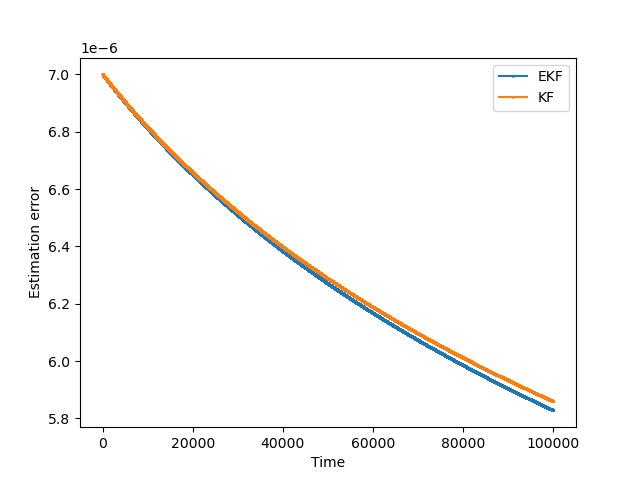
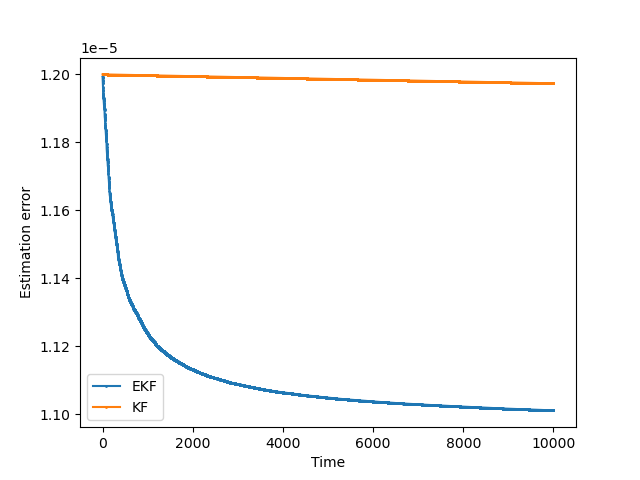
update LQG_EKF functions; adjust input value range to make better output plot; add torch version for gpu running (better for large input matrices); generate output plot

diff --git a/LQG_EKF_cuda.py b/LQG_EKF_cuda.py
@@ -1,19 +1,27 @@
-import numpy as np
+import torch
+import os
+os.environ["KMP_DUPLICATE_LIB_OK"] = "TRUE"
+
 import scipy.linalg
 import scipy.signal
 import matplotlib.pyplot as plt
 from typing import Literal
 import tqdm
+import numpy as np
+
+# Define the device
+# device = torch.device("cuda" if torch.cuda.is_available() else "cpu")
+device = torch.device("cpu")
+
 small_value = 1e-6  # Small value to prevent numerical issues
 
-def get_measurement(C = None, x = None, v = None, M = None):
+def get_measurement(C=None, x=None, v=None, M=None):
     assert C is not None, 'Measurement matrix C is required for Kalman filter'
     assert x is not None, 'State x is required for Kalman filter'
     assert v is not None, 'Measurement noise v is required for Kalman filter'
     assert M is not None, 'Matrix M is required for Extended Kalman filter'
-    quad_term = np.clip(x.T @ M @ x, -1e6, 1e6)  # Limit extreme values
-    return C @ x + quad_term * np.ones((M.shape[0], 1)) + v
-
+    quad_term = torch.clamp(x.T @ M @ x, -1e6, 1e6)  # Limit extreme values
+    return C @ x + quad_term * torch.ones((M.shape[0], 1), dtype=torch.float64, device=device) + v
 
 class LQG:
     def __init__(self, A_E, A_S, B_Si, C, Q, R, W_E, W_S, V, M, H, filter: Literal['EKF', 'KF'] = 'EKF'):
@@ -26,44 +34,45 @@ class LQG:
         self.m = A_S.shape[0] # sensor state size
         self.n = A_E.shape[0] # earth state size
         
-        x_E_0 = np.zeros((self.n, 1), dtype=np.float64) # state of the earth
-        x_S_0 = np.zeros((self.m, 1), dtype=np.float64) # state of the sensors
-        self.x = [np.vstack((x_E_0, x_S_0))] # true state
-        self.x_hat = [np.vstack((x_E_0, x_S_0))] # estimated state
+        x_E_0 = torch.zeros((self.n, 1), dtype=torch.float64, device=device) # state of the earth
+        x_S_0 = torch.zeros((self.m, 1), dtype=torch.float64, device=device) # state of the sensors
+        self.x = [torch.vstack((x_E_0, x_S_0))] # true state
+        self.x_hat = [torch.vstack((x_E_0, x_S_0))] # estimated state
         
         self.u = [] # control input
         
         # lqe 
-        self.C = C.astype(np.float64) # measurement matrix
+        self.C = C.to(dtype=torch.float64, device=device) # measurement matrix
         self.kalman_gain_list = [None]
-        self.P_lqe = [np.eye( self.n + self.m, dtype=np.float64) * small_value]  # estimation error covariance matrix 
-        self.M = M.astype(np.float64) # matrix in the non-linear measurement function
+        self.P_lqe = [torch.eye(self.n + self.m, dtype=torch.float64, device=device) * small_value]  # estimation error covariance matrix 
+        self.M = M.to(dtype=torch.float64, device=device) # matrix in the non-linear measurement function
         
         # lqr
-        self.A_E = A_E.astype(np.float64)
-        self.A_S = A_S.astype(np.float64)
-        self.A = scipy.linalg.block_diag(self.A_E, self.A_S)
+        self.A_E = A_E.to(dtype=torch.float64, device=device)
+        self.A_S = A_S.to(dtype=torch.float64, device=device)
+        self.A = torch.tensor(scipy.linalg.block_diag(self.A_E.cpu(), self.A_S.cpu()), dtype=torch.float64, device=device)
         
-        self.B_E = np.zeros((self.n, self.n), dtype=np.float64)
-        self.B_S = B_Si.astype(np.float64)
+        self.B_E = torch.zeros((self.n, self.n), dtype=torch.float64, device=device)
+        self.B_S = B_Si.to(dtype=torch.float64, device=device)
         
-        self.B = np.linalg.pinv(scipy.linalg.block_diag(self.B_E, self.B_S))
-        self.Q = Q.astype(np.float64)
-        self.R = R.astype(np.float64)
+        self.B = torch.tensor(np.linalg.pinv(scipy.linalg.block_diag(self.B_E.cpu(), self.B_S.cpu())), dtype=torch.float64, device=device)
+        self.Q = Q.to(dtype=torch.float64, device=device)
+        self.R = R.to(dtype=torch.float64, device=device)
         self.control_gain_list = []
         self.P_lqr = [self.Q]
         
         # noise
-        self.W_E = W_E.astype(np.float64)
-        self.W_S = W_S.astype(np.float64)
-        self.V = V.astype(np.float64)
+        self.W_E = W_E.to(dtype=torch.float64, device=device)
+        self.W_S = W_S.to(dtype=torch.float64, device=device)
+        self.V = V.to(dtype=torch.float64, device=device)
         self.w = [None]
         self.v = [None]
-        for _ in range(H):
-            w_E = np.random.multivariate_normal(np.zeros(self.n), W_E).reshape(-1, 1)
-            w_S = np.random.multivariate_normal(np.zeros(self.m), W_S).reshape(-1, 1)
-            v = np.random.multivariate_normal(np.zeros(self.m + self.n), V).reshape(-1, 1)
-            self.w.append(np.vstack((w_E, w_S)))
+        print('Generating noise...')
+        for _ in tqdm.tqdm(range(H)):
+            w_E = torch.tensor(np.random.multivariate_normal(np.zeros(self.n), W_E.cpu().numpy()), dtype=torch.float64, device=device).reshape(-1, 1)
+            w_S = torch.tensor(np.random.multivariate_normal(np.zeros(self.m), W_S.cpu().numpy()), dtype=torch.float64, device=device).reshape(-1, 1)
+            v = torch.tensor(np.random.multivariate_normal(np.zeros(self.m + self.n), V.cpu().numpy()), dtype=torch.float64, device=device).reshape(-1, 1)
+            self.w.append(torch.vstack((w_E, w_S)))
             self.v.append(v)
     
     def update_lqr(self):
@@ -71,13 +80,13 @@ class LQG:
         p_list.append(self.Q)
         print('Calculating LQR...')
         for k in tqdm.tqdm(range(self.H, 0, -1)):
-            p = self.Q + self.A.T @ p_list[k] @ self.A - self.A.T @ p_list[k] @ self.B @ np.linalg.pinv(self.R + self.B.T @ p_list[k] @ self.B) @ self.B.T @ p_list[k] @ self.A
+            p = self.Q + self.A.T @ p_list[k] @ self.A - self.A.T @ p_list[k] @ self.B @ torch.linalg.pinv(self.R + self.B.T @ p_list[k] @ self.B) @ self.B.T @ p_list[k] @ self.A
             p_list[k-1] = p
         
         self.P_lqr = p_list
         
         for k in tqdm.tqdm(range(self.H)):
-            feedback_gain = -np.linalg.pinv(self.R + self.B.T @ self.P_lqr[k+1] @ self.B) @ self.B.T @ self.P_lqr[k+1] @ self.A
+            feedback_gain = -torch.linalg.pinv(self.R + self.B.T @ self.P_lqr[k+1] @ self.B) @ self.B.T @ self.P_lqr[k+1] @ self.A
             self.control_gain_list.append(feedback_gain)
         return
     
@@ -97,21 +106,21 @@ class LQG:
                 
                 # kalman gain
                     # K = P- @ C^T @ inv(C @ P- @ C^T + V)
-                kalman_gain =(p0 @ self.C.T @ np.linalg.pinv(self.C @ p0 @ self.C.T + self.V))
+                kalman_gain =(p0 @ self.C.T @ torch.linalg.pinv(self.C @ p0 @ self.C.T + self.V))
                 self.kalman_gain_list.append(kalman_gain)
                 
                 # measurement
                 z = get_measurement(C=self.C, x=self.x[k], v=self.v[k], M=self.M)
                 
                 # innovation
-                y = z - get_measurement(C=self.C, x=x_hat_pri, v=np.zeros((self.m + self.n, 1)), M=self.M)
+                y = z - get_measurement(C=self.C, x=x_hat_pri, v=torch.zeros((self.m + self.n, 1), dtype=torch.float64, device=device), M=self.M)
                 
                 # posterior estimate
                 x_hat_post = x_hat_pri + kalman_gain @ y
                 self.x_hat.append(x_hat_post)
                 
                 # P_k - Propagation of the estimation error covariance matrix
-                p1 = (np.eye(self.n + self.m) - kalman_gain @ self.C) @ p0
+                p1 = (torch.eye(self.n + self.m, dtype=torch.float64, device=device) - kalman_gain @ self.C) @ p0
                 self.P_lqe.append(p1)
         
         elif self.filter == 'EKF':
@@ -121,7 +130,7 @@ class LQG:
                 self.x.append(self.A @ self.x[k-1] + self.B @ self.u[k-1] + self.w[k])
                 
                 # Jacobian of the measurement function  
-                C_tilde = (self.C + 2 * self.M @ self.x[k] @ np.ones((1, self.n + self.m))).squeeze()
+                C_tilde = (self.C + 2 * self.M @ self.x[k] @ torch.ones((1, self.n + self.m), dtype=torch.float64, device=device)).squeeze()
                 
                 # priori estimate 
                 x_hat_pri = self.A @ self.x_hat[k-1] + self.B @ self.u[k-1]     
@@ -131,21 +140,21 @@ class LQG:
                 
                 # kalman gain
                     # K = P- @ C^T @ inv(C @ P- @ C^T + V)
-                kalman_gain =(p0 @ C_tilde.T @ np.linalg.pinv(C_tilde @ p0 @ C_tilde.T + self.V))
+                kalman_gain =(p0 @ C_tilde.T @ torch.linalg.pinv(C_tilde @ p0 @ C_tilde.T + self.V))
                 self.kalman_gain_list.append(kalman_gain)
                 
                 # measurement
                 z = get_measurement(C=self.C, x=self.x[k], v=self.v[k], M=self.M)
                 
                 # innovation
-                y = z - get_measurement(C=self.C, x=x_hat_pri, v=np.zeros((self.n + self.m, 1)), M=self.M)
+                y = z - get_measurement(C=self.C, x=x_hat_pri, v=torch.zeros((self.n + self.m, 1), dtype=torch.float64, device=device), M=self.M)
                 
                 # posterior estimate
                 x_hat_post = x_hat_pri + kalman_gain @ y
                 self.x_hat.append(x_hat_post)
                 
                 # P_k - Propagation of the estimation error covariance matrix
-                p1 = (np.eye(self.n + self.m) - kalman_gain @ C_tilde) @ p0
+                p1 = (torch.eye(self.n + self.m, dtype=torch.float64, device=device) - kalman_gain @ C_tilde) @ p0
                 self.P_lqe.append(p1)
         return
     
@@ -159,7 +168,7 @@ class LQG:
             
         estimate_error_list = []
         for k in range(1, self.H + 1, 1):
-            estimate_error_list.append(np.trace(self.P_lqe[k]))
+            estimate_error_list.append(torch.trace(self.P_lqe[k]).item())
         return estimate_error_list
     
     def plot_history(self):
@@ -167,7 +176,7 @@ class LQG:
         estimate_error_list = []
         
         for k in range(1, self.H + 1, 1):
-            estimate_error_list.append(np.trace(self.P_lqe[k]))    
+            estimate_error_list.append(torch.trace(self.P_lqe[k]).item())    
         
         plt.plot(estimate_error_list, marker='o', markersize=1)
         plt.xlabel('Time')
@@ -176,32 +185,31 @@ class LQG:
     
 def generate_random_positive_definite_matrix(size, scale=1.0):
     """Generates a random positive definite matrix."""
-    A = np.random.randn(size, size)
-    return scale * (A.T @ A) + np.eye(size) * 1e-3  # Ensure it's positive definite
+    A = torch.randn(size, size, dtype=torch.float64, device=device)
+    return scale * (A.T @ A) + torch.eye(size, dtype=torch.float64, device=device) * 1e-3  # Ensure it's positive definite
     
 # Test with random values
 if __name__ == "__main__":
 
-
     # Define dimensions
-    n = 4  # Number of earth states
-    m = 3  # Number of sensor states
+    n = 8  # Number of earth states
+    m = 4  # Number of sensor states
 
     # Random system matrices
-    A_E = np.random.randn(n, n) * 0.1
-    A_S = np.random.randn(m, m) * 0.1
-    B_Si = np.random.randn(m, m) * 0.1
-    C = np.random.randn(m + n, n + m) * 0.1
-    M = np.random.randn(m + n, n + m) * 0.01  # Small nonlinearity
+    A_E = torch.randn(n, n, dtype=torch.float64, device=device) * 0.1
+    A_S = torch.randn(m, m, dtype=torch.float64, device=device) * 0.1
+    B_Si = torch.randn(m, m, dtype=torch.float64, device=device) * 0.1
+    C = torch.randn(m + n, n + m, dtype=torch.float64, device=device) * 0.1
+    M = torch.randn(m + n, n + m, dtype=torch.float64, device=device) * 0.1  # Small nonlinearity
 
     # Cost matrices (should be positive definite)
     Q = generate_random_positive_definite_matrix(n + m, scale=10)  # LQR state cost
     R = generate_random_positive_definite_matrix(n + m, scale=1)   # LQR control cost
 
     # Covariance matrices (must be positive definite)
-    W_E = generate_random_positive_definite_matrix(n, scale=0.1)  # Process noise (Earth)
-    W_S = generate_random_positive_definite_matrix(m, scale=0.1)  # Process noise (Sensor)
-    V = generate_random_positive_definite_matrix(m + n, scale=0.1)  # Measurement noise
+    W_E = generate_random_positive_definite_matrix(n, scale=1)  # Process noise (Earth)
+    W_S = generate_random_positive_definite_matrix(m, scale=1)  # Process noise (Sensor)
+    V = generate_random_positive_definite_matrix(m + n, scale=1)  # Measurement noise
 
     # Horizon length
     H = 100000
@@ -210,7 +218,6 @@ if __name__ == "__main__":
     print('Simulating EKF...')
     lqg_ekf = LQG(A_E, A_S, B_Si, C, Q, R, W_E, W_S, V, M, H, filter='EKF')
     estimate_error_list_ekf = lqg_ekf.simulate(plot=False)
-    
     
     print('Simulating KF...')
     lqg_kf = LQG(A_E, A_S, B_Si, C, Q, R, W_E, W_S, V, M, H, filter='KF')
